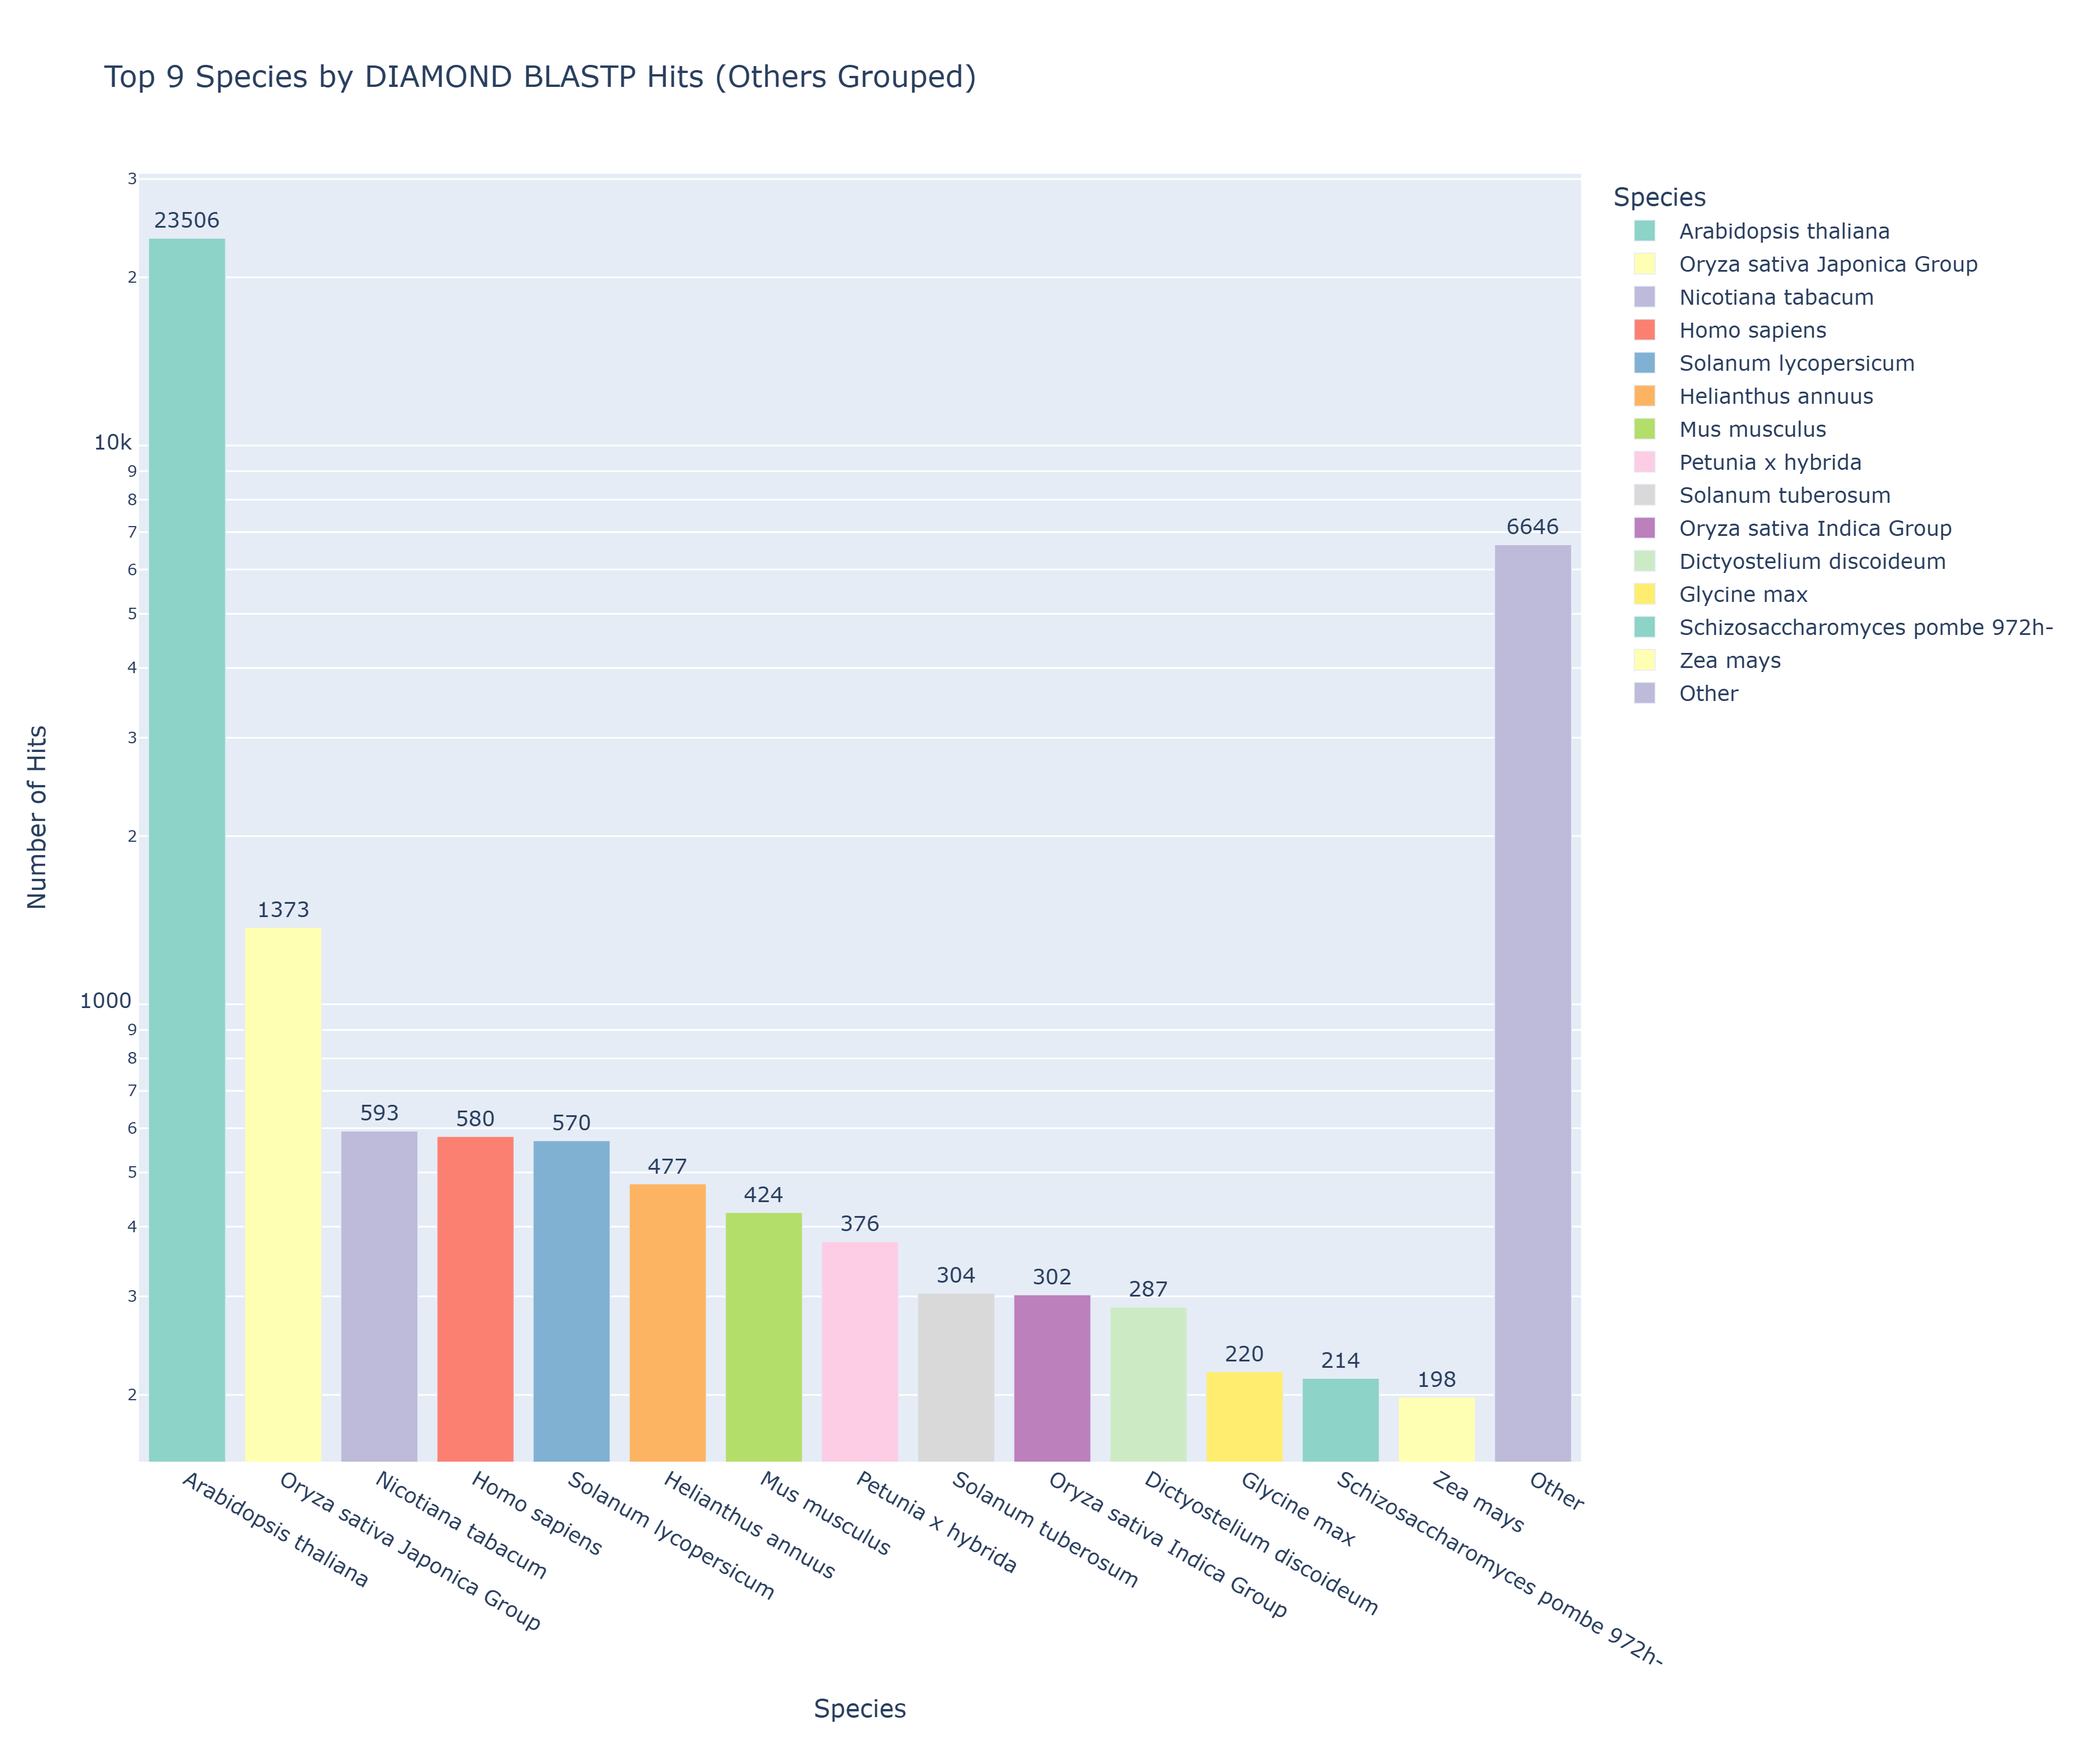
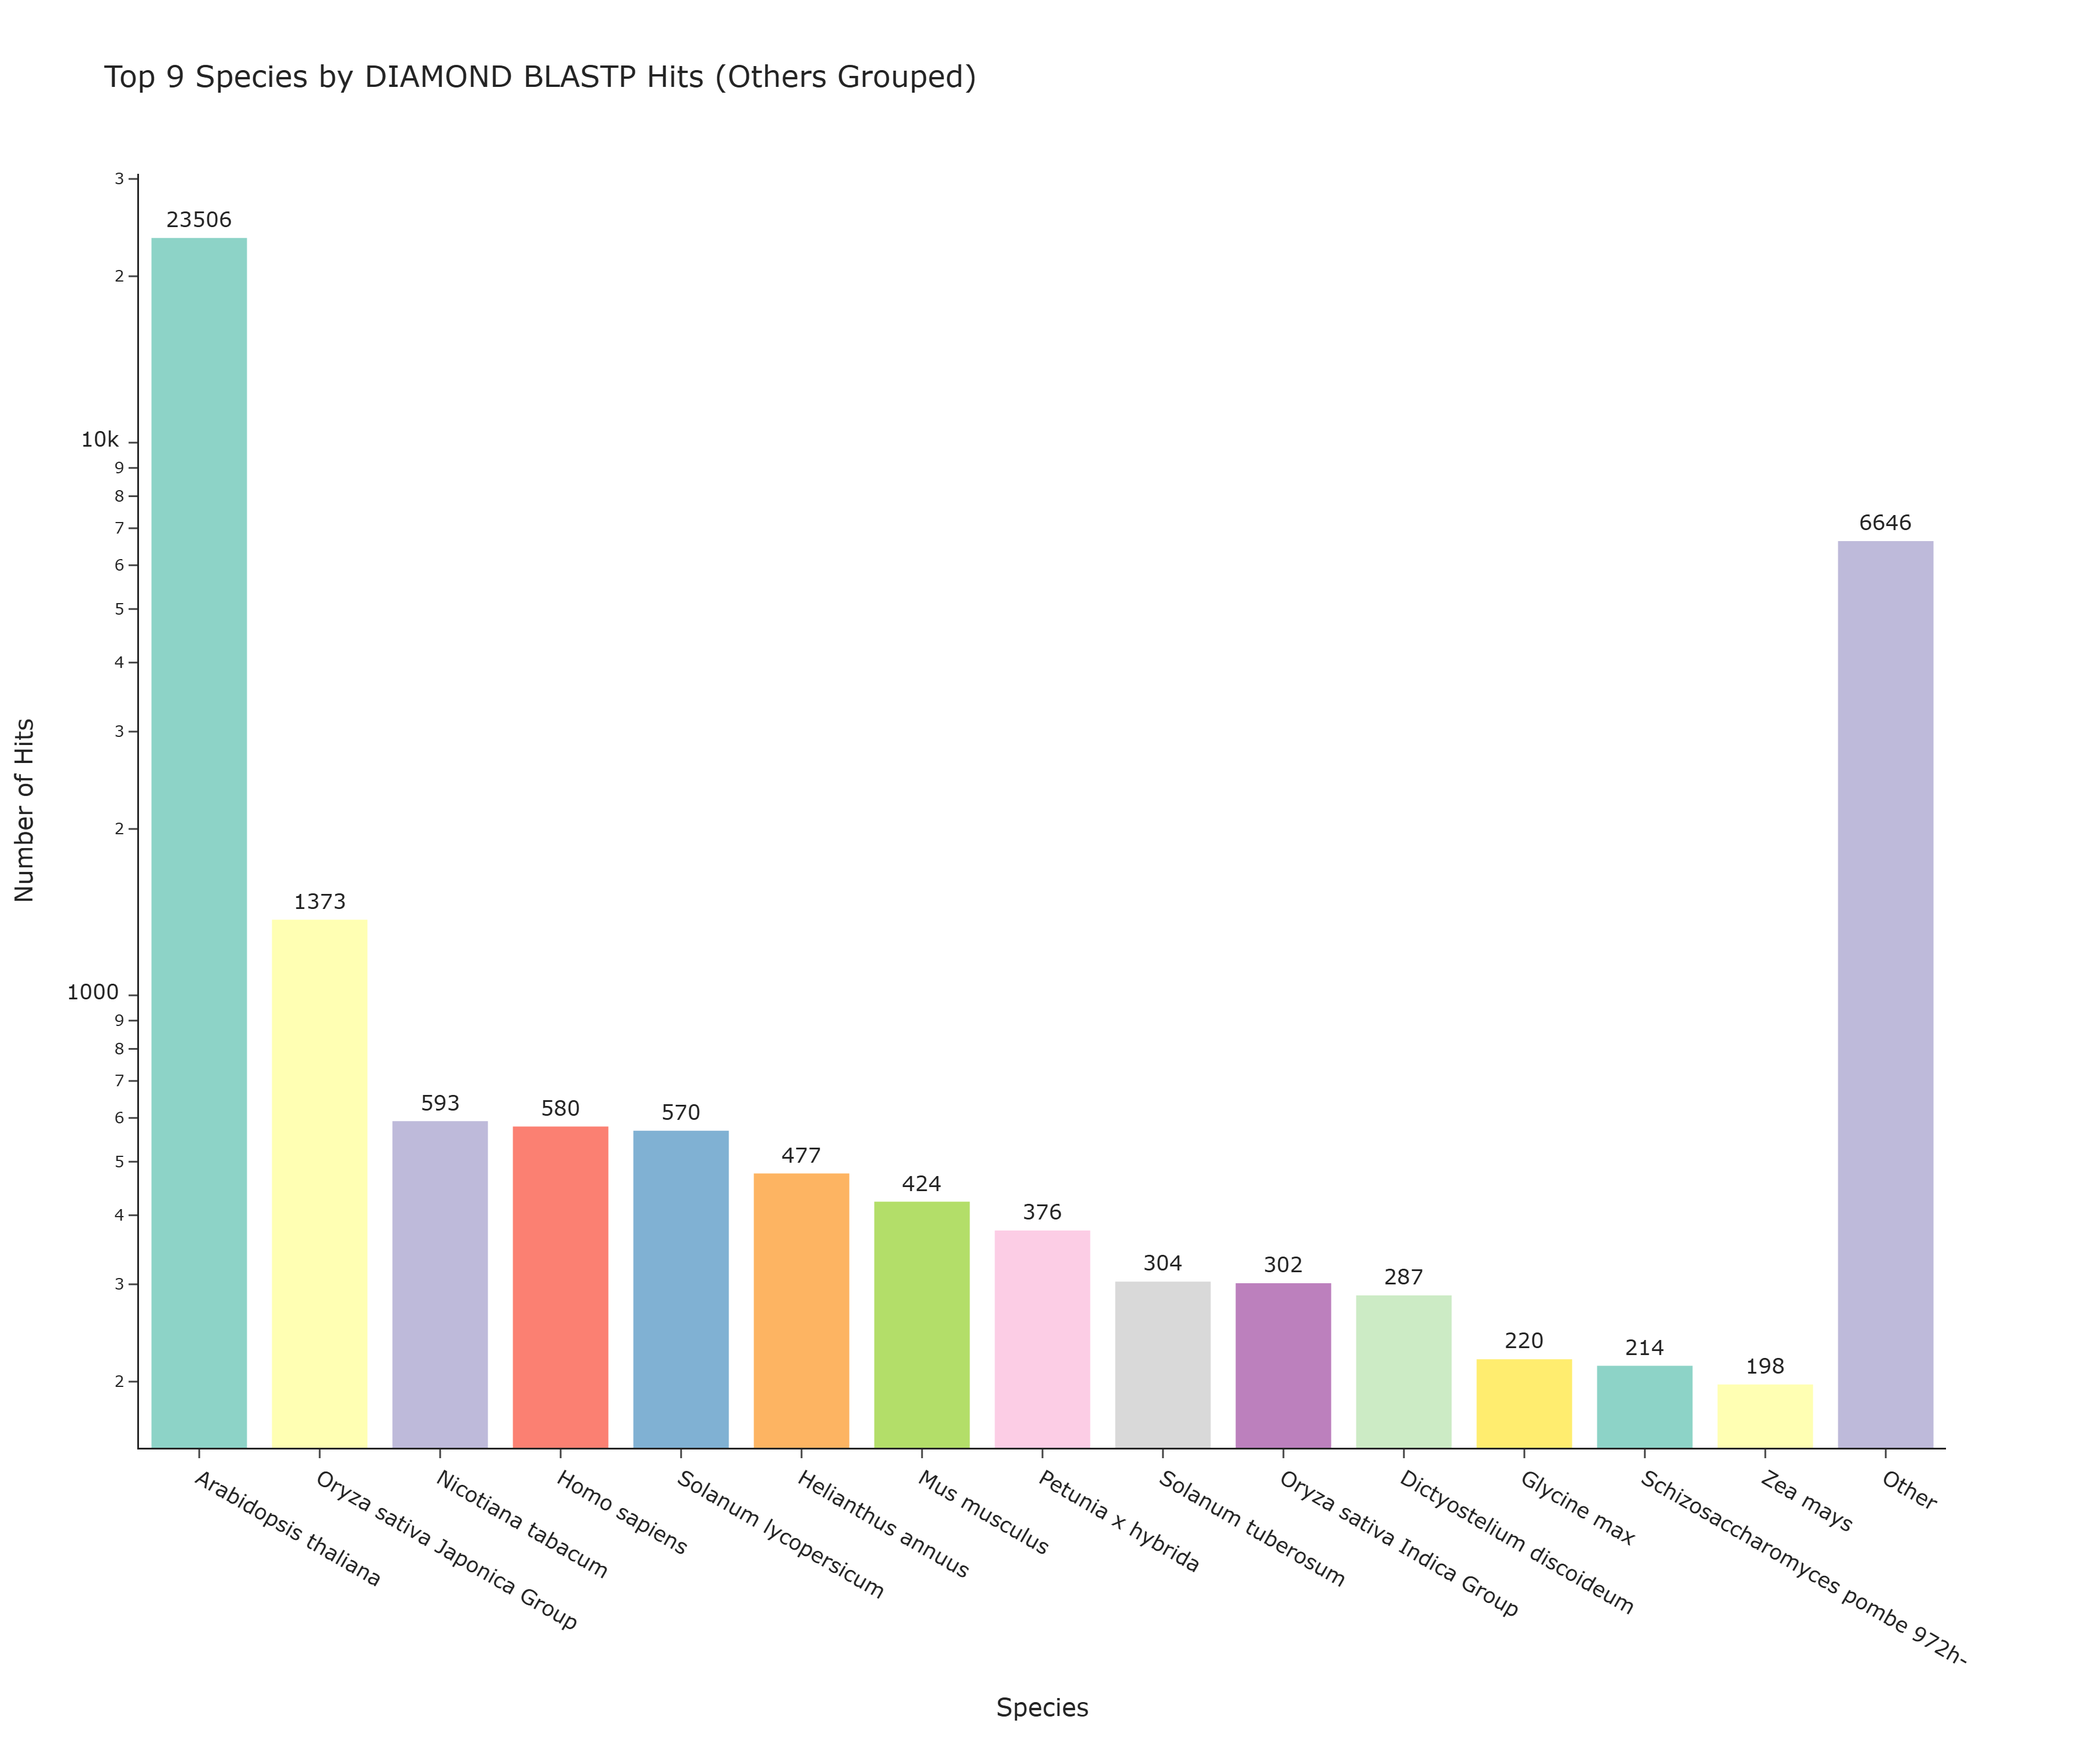
Work on manuscript

diff --git a/scripts/go_enrichment/go_enrichment.py b/scripts/go_enrichment/go_enrichment.py
@@ -43,6 +43,7 @@ def get_gene2go(df: pd.DataFrame) -> dict:
     return gene2go
 
 def get_enrichment_results_df(go_results: list) -> pd.DataFrame:
+
     df_results = pd.DataFrame([
         {
             "GO": r.GO,
@@ -53,9 +54,10 @@ def get_enrichment_results_df(go_results: list) -> pd.DataFrame:
             "pop_count": r.pop_count,
             "pop_n": r.pop_n,
             "p_uncorrected": r.p_uncorrected,
-            "p_fdr_bh": r.p_fdr_bh
+            "p_fdr_bh": r.p_fdr_bh,
+            "enrichment": r.enrichment
         }
-        for r in results
+        for r in go_results
     ])
 
     return df_results
@@ -108,6 +110,22 @@ def plt_top_n_go_enriched_terms_by_namespace(df: pd.DataFrame, n: int = 15) -> p
     plt.tight_layout()
     return plt.gcf()
 
+def plt_go_bar(df: pd.DataFrame, top_n: int = 15, title=None) -> plt.Figure:
+    df = df.head(top_n).copy()
+    fig, ax = plt.subplots(figsize=(10, 6))
+    sns.barplot(
+        x="-log10(FDR)",
+        y="short_name",
+        data=df,
+        palette="viridis",
+        ax=ax
+    )
+    ax.set_xlabel("-log10(FDR)")
+    ax.set_ylabel("GO Term")
+    ax.set_title(title or f"Top {top_n} Enriched GO Terms")
+    plt.tight_layout()
+    return fig
+
 if __name__ == "__main__":
     bg_gene2go = get_gene2go(bg_df)
     nc_gene2go = get_gene2go(nc_df)
@@ -129,10 +147,22 @@ if __name__ == "__main__":
 
     results = goea.run_study(study_genes)
     results_df = get_enrichment_results_df(results)
-    sig_df = results_df[results_df["p_fdr_bh"] < 0.05].copy()
+    sig_df = results_df[results_df["p_fdr_bh"] < 0.01].copy()
     sig_df.to_csv(DATA_FOLDER / "goatools_go_enrichment_results.csv", index=False)
 
-    # Format for visualisation
-    sig_df["-log10(FDR)"] = -np.log10(sig_df["p_fdr_bh"])
-    sig_df["short_name"] = sig_df["name"].apply(lambda x: x if len(x) < 40 else x[:37] + "...")
+    # Filter for overrepresented and underrepresented genes.
+    over_df = sig_df[sig_df['enrichment'] == 'e'].copy()
+    over_df.to_csv(DATA_FOLDER / "goatools_go_enrichment_results_overrep.csv", index=False)
+    under_df = sig_df[sig_df['enrichment'] == 'p'].copy()
+    under_df.to_csv(DATA_FOLDER / "goatools_go_enrichment_results_underrep.csv", index=False)
 
+    # Format for visualisation
+    over_df["-log10(FDR)"] = -np.log10(sig_df["p_fdr_bh"])
+    over_df["short_name"] = over_df["name"].apply(lambda x: x if len(x) < 40 else x[:37] + "...")
+    over_df = over_df.sort_values("-log10(FDR)", ascending=False)
+
+    # Publication plot.
+    fig = plt_go_bar(over_df, top_n=20)
+    fig.savefig("../../plots/go_enrichment/goatools_go_enrichment_results_overrep_top20.png")
+    fig = plt_top_n_go_enriched_terms_by_namespace(over_df, n=10)
+    fig.savefig("../../plots/go_enrichment/goatools_go_enrichment_results_overrep_top10_ns.png")

diff --git a/scripts/functional_annotation/annotation_analysis.py b/scripts/functional_annotation/annotation_analysis.py
@@ -100,8 +100,12 @@ def plt_counts_per_kingdom(ddf = pd.DataFrame) -> px.bar:
         xaxis_title="Taxonomic Kingdom",
         yaxis_title="Number of Hits",
         uniformtext_minsize=8,
-        uniformtext_mode='hide'
+        uniformtext_mode='hide',
+        showlegend = False
     )
+
+    plt.update_layout(template="simple_white")
+
     return plt
 
 def plt_counts_per_species(ddf = pd.DataFrame, n: int = 10) -> px.bar:
@@ -131,9 +135,11 @@ def plt_counts_per_species(ddf = pd.DataFrame, n: int = 10) -> px.bar:
         xaxis_title="Species",
         yaxis_title="Number of Hits",
         uniformtext_minsize=8,
-        uniformtext_mode='hide'
+        uniformtext_mode='hide',
+        showlegend=False
     )
 
+    plt.update_layout(template="simple_white")
     return plt
 
 if __name__=="__main__":
@@ -146,8 +152,10 @@ if __name__=="__main__":
 
     # Significant hits based on revalue.
     sig_hits = ddf[ddf["evalue"] <= SIG_THRESHOLD]
-    n_sig = len(sig_hits)
+
 
     # Build plots.
     fig = plt_counts_per_species(ddf=ddf, n=15)
     save_plotly_figure(fig, "diamond_hits_counts_per_species")
+    fig1 = plt_counts_per_kingdom(ddf=ddf)
+    save_plotly_figure(fig1, "diamond_hits_per_kingdom")

diff --git a/manuscript.md b/manuscript.md
@@ -18,15 +18,15 @@ existing DOI: Dryad: 10.5061/dryad.8gtht76rh [ref]. The FASTA file was indexed u
 
 Illumina paired end reads were obtained from [complete] for thirty-four individuals within the Galápagos Islands, 
 collectively representing eighteen different _scalasia_ species [supplementary table with meta-data]. Initial read 
-quality metrics were obtained using FastQC (v0.11.9) [ref]. Paired samples were then processed with Trimmomatic using
-the parameters:
+quality metrics were obtained using FastQC (v0.11.9) [ref]. Paired samples were then processed with Trimmomatic with
+parameters:
 
 `ILLUMINACLIP:$ADAPTERS:2:30:10 LEADING:3 TRAILING:3 SLIDINGWINDOW:4:15 MINLEN:99 TOPHRED33`
 
 Post-trimmed quality was assessed with FastQC/MultiQC (v1.12) [ref]. Trimmed FASTA files were aligned to the reference 
 genome using Bowtie2 (v2.4.5) with the --sensitive flag and insert size parameters -I 0 -X 1000.
-sorted BAM files for the thirty-four samples were generated using Samtools (v0.5.0) with `view`, `sort` and 
-`index` commands (default parameters). Initial alignment metrics were generated using Samtools `stats` and visualised
+sorted BAM files for the thirty-four samples were generated with Samtools (v0.5.0) with `view`, `sort` and 
+`index` commands (default parameters). Initial alignment metrics were generated with Samtools `stats` and visualised
 using a custom Python script [maybe more info].
 
 ### Generation of Presence/Abcence Variation Matrix.
@@ -63,14 +63,16 @@ following code snippet, to return all hits paired with associated taxonomy infor
 Hits with E-value < 1e-5 were considered statistically significant. Resulting BlastP hits were annotated with GO terms 
 using the publicly available Go term mapping file available here:
 https://ftp.uniprot.org/pub/databases/uniprot/current_release/knowledgebase/idmapping/idmapping_selected.tab.gz,
-using a custom Python script to merge GO terms with BlastP hits using the 'staxids' field. 
+using a custom Python script and the Obonet package [version] to merge GO terms with BlastP hits using the 'staxids'
+field. The top high confidence hit (if multiple hits) was used to provide functional annotation of the feature. 
 
 ### Gene Enrichment Analysis.
 A custom Python script [link] was used to map GO terms from the BlastP hits to their human-readable descriptions using 
 the publicly available mapping file `go-basic.obo` available for download here: https://geneontology.org/docs/download-ontology/.
 
 Go enrichment analysis was performed using the `goatools` (v1.4.12) [ref] Python package using the function 
-GOEnrichmentStudy() with parameters: `alpha=0.01, methods=["fdr_bh] propagate_counts=True`
+GOEnrichmentStudy() with parameters: `alpha=0.01, methods=["fdr_bh] propagate_counts=True. Fishers exact test was used
+to assess significance. GO terms with P < 0.01 were considered significant. 
 
 ### Phylogenetic analysis.
 The presence abcence binary matrix generated above was used to assess phylogenetic relationships with the `scikit-bio`
@@ -102,33 +104,37 @@ To assess the extent and pattern of feature abcence variation between individual
 PAV matrix and compared with sample metadata [sup table linking to sample metadata].[F1.3].
 UMAP clustering confirmed feature abcence variation between individuals, with most samples clustering with other 
 individuals from the same island or island group. [split Islands into island groups - I.e. central islands etc.]. These 
-findings suggest that individuals from the same or neighbouring islands tend to share a more similar feature abcence 
+data suggest that individuals from the same or neighbouring islands tend to share a more similar feature abcence 
 profile than geographically distant individuals.
 
 ![Figure 1](figures/f1_canva.png "Figure 1")
 
 ### GO Enrichment Analysis Indicates Abcence of Genes Relating to Secondary Metabolic Pathways. 
-In order to gain further insight into the non-core feature set. Functional annotation was performed for all features 
-within the reference gff file by running a Blastp search of extracted protein sequences against the Uniprot-sprot 
+To gain further insight into the non-core feature set, functional annotation was attempted for all features 
+within the reference gff file via Blastp search of extracted protein sequences against the Uniprot-sprot 
 database of highly annotated proteins. In total, high-confidence BlastP hits (E-value < 1e-5) were obtained for 36550 
-of the gff file features - 83.70% and henceforth referred to as genes. GO ID's and ontology were retrieved for each
-hit by merging the GO mapping file from Uniprot on `staxids`. Human-readable descriptions of GO ID's were appended with 
-Obonet [ref]. 1508/1988 high-confidence hits were obtained for the Non-core feature subset. 
+of the gff file features - 83.70% and henceforth referred to as genes. GO ID's and description ontology were retrieved 
+for each hit by merging the GO mapping file from Uniprot on `staxids`. Top taxonomic kingdom [Fig2.3] and species [Fig 2.4]
+were analysed to support the accuracy of functional annotation with 32758/36550 hits mapping to _Virdiplantae_
+and 23506/36550 mapping to species _Arabidopsis thaliana_.
 
-[Figure 2.1 showing annotation statistics Could show hits per phyla/species etc.]
+![Figure 2](/figures/f2_canva.png)
 
-GO enrichment analysis was conducted on the non-core gene set to assess whether variable gene content of the
-Scalesia genus exhibits patterns similar to those observed in variable gene sets of other plants species. [refs].
-Results identified significant enrichment (abcence) of 45 GO terms (alpha < 0.01)...
+GO enrichment analysis was conducted on the non-core gene set with the Goatools package [ref], to assess whether 
+variable gene content of the _Scalesia_ genus exhibits patterns similar to those observed in variable gene sets of other
+plants species. [refs]. Results identified significant enrichment (abcence) of 45 GO terms (P < 0.01), top 20 shown in
+[figure 2.1]. Results identified significant loss of genes involved in secondary metabolite biosynthesis, with
+loss of genes involved in production of terpenoids and broader isoprenoid compounds. The role of terpenoids in plants as 
+defensive compounds is well documented [ref]. Loss of genes involved in biosynthesis of secondary compounds in island 
+species is a key hallmark of "plant island syndrome" [ref]. 
 
 ## Spatial Variation in Gene Presence–Absence Reflects Progressive Gene Loss Away from the Galápagos Central Islands.
 In line with previous evidence, we hypothesised the pattern of feature abcence observed may be associated with the
-evolutionary migration pattern of _scalasia_ across the Galápagos. Using prior work by [Author et al., Year],
-that suggests a common ancestor of _scalasia_ landed and migrated outwards from the central islands of the archipelago
+evolutionary migration pattern of _scalasia_ across the Galápagos. Using prior work by [Ref],
+suggesting a common ancestor of _scalasia_ landed and migrated outwards from the central islands of the archipelago
 (Santiago, Santa Cruz, Floreana, and Isabela), before colonising the older island of San Cristóbal. We calculated the 
 distance in longitude/latitude of each individual from the centre of Santiago island, to assess whether this distance
-correlated with number of absent features for each sample.
-
+correlated with number of absent features for each sample. 
 
 # Discussion.
 * Not all samples similar feature abcence profiles with individuals of the same or neighboring islands - Santiago sample etc.
